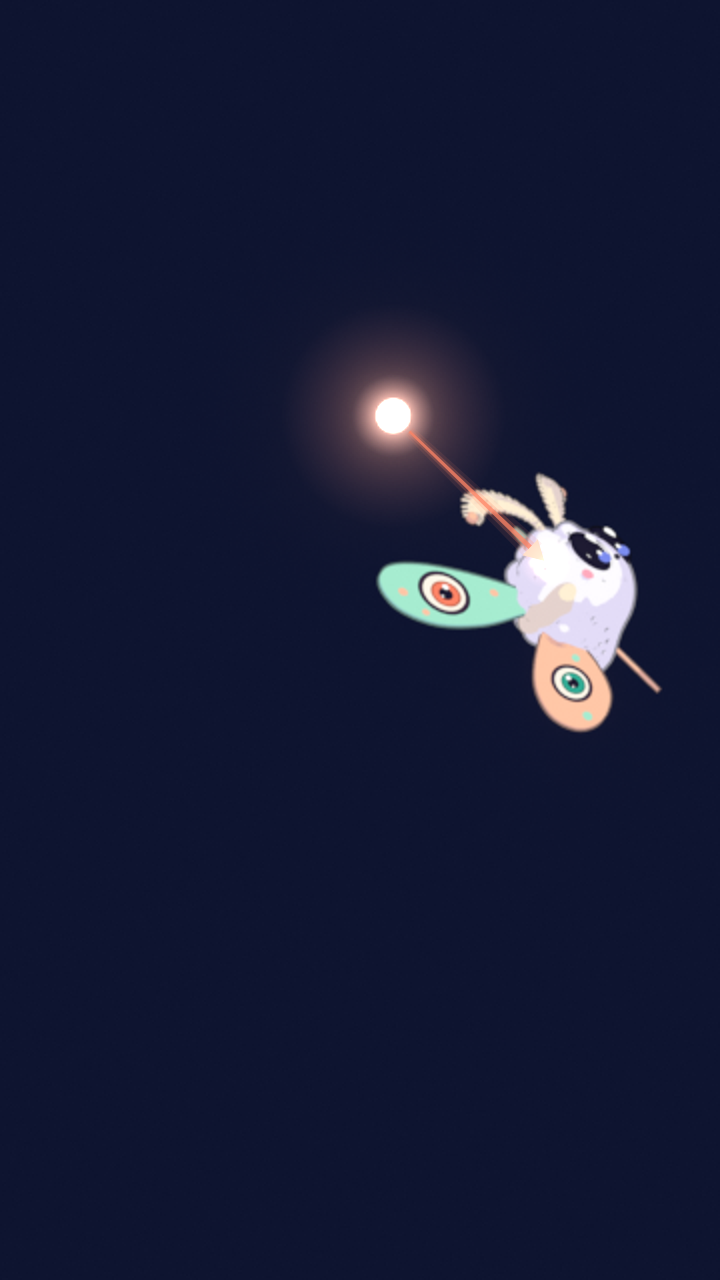
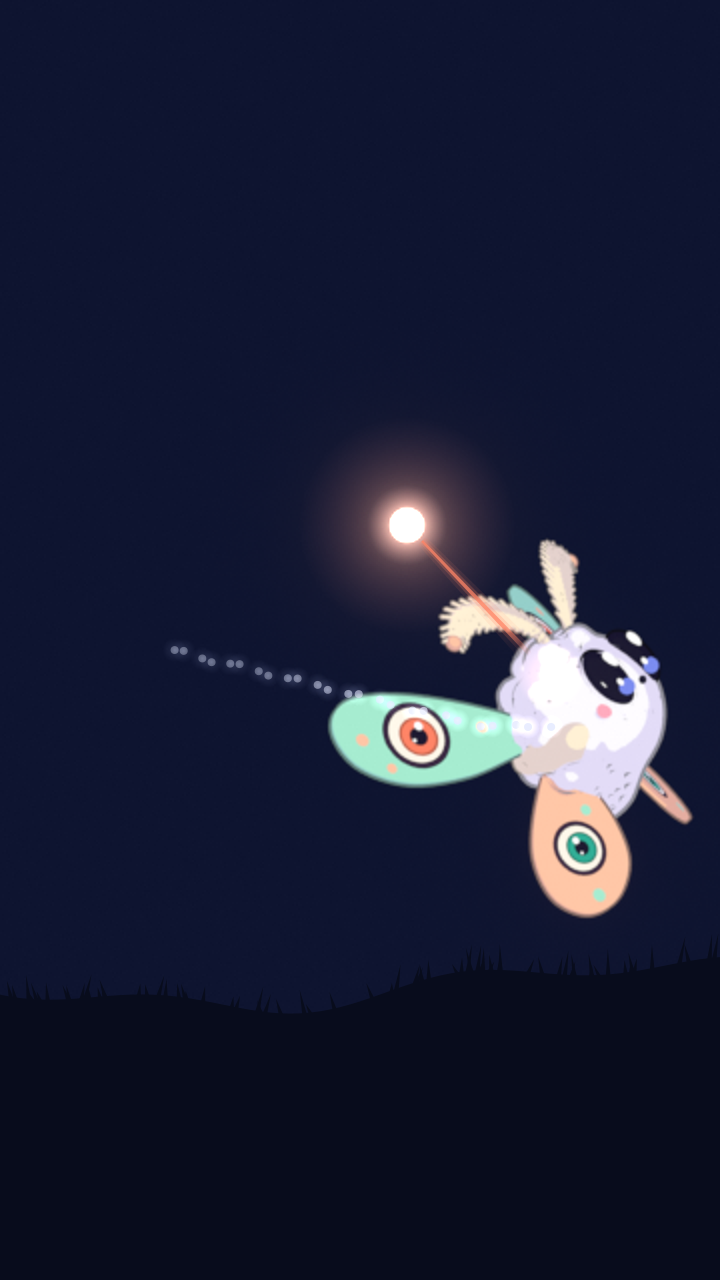
Ep3 S11: OK stills after the fixes (f60, f80), full render running; status
Claude-Session: https://claude.ai/code/session_01PF511YEojWTNPFKxSeURms

Changed region(s): [[0.4278, 0.25, 0.9778, 0.7188], [0.2444, 0.5, 0.3361, 0.5312], [0.3972, 0.5, 0.4278, 0.5312]]

diff --git a/out/monsters/diorama_ep03/status/helper4.md b/out/monsters/diorama_ep03/status/helper4.md
@@ -13,18 +13,16 @@
     - **The shrimp:** on "So I did." it hops from his right hand onto his left shoulder (a crouch, an arc, a landing
       squash).
   - **2D pass:** `EP=ep03 python channels/monsters/diorama_ep02/post_helper4.py S01`.
-- **S11: OK stills pushed, waiting for your OK:** `okstills/S11_f040.png` (level flight, under the light: it does NOT
-  fly at it) and `okstills/S11_f080.png` (its back tilted square to the light, the glow line on its back, the path
-  bending round it). Half-scale renders, upscaled. Timing: 92 render frames ("They" f51, "backs" f63).
-  - **The look:** a clean graphic side view on a dark night-blue ground, swung 30 degrees toward the moth's front so
-    its wings read (edge-on they didn't).
-  - **The moth:** one fluffmoth, 1.8x size, flapping on 1s.
-  - **The light:** a coral orb with a 2D bloom and a real coral point light.
-  - **The tilt:** from "They" its back turns toward the light (`fluffmoth.back_to`, amount 0 to 1 by "backs"+6),
-    and the tilt bends its heading into an arc round the light.
-  - **The glow line:** from "backs" a soft coral line runs from the light to its back (an arrow-like taper, a small
-    head at its back, breathing). No text.
-  - **Camera:** a slow push-in on 1s. Everything stays above the caption band (the moth and light at y ~400-700).
+- **S11: your 3 fixes are done; the FULL RENDER is running** (started about 10:20 UTC, 92 frames).
+  New stills: `okstills/S11_f060.png` and `okstills/S11_f080.png` (the old f040 is removed).
+  1. **"Skewer":** the rod through the moth wasn't the glow line. It was the moth's far hindwing seen edge-on,
+     lined up with the line by chance. The camera is now higher (20 degrees, looking a little down on it) so the
+     wings show their faces. The glow line now fades out in the fur of its back, with a small coral glow where it
+     lands. It never passes the moth.
+  2. **Trail:** a faint dotted trail of its flight so far (older dots dimmer): the long straight run under the light,
+     then the bend round it. A 1 s trail hid under its own wings at this size.
+  3. **Bigger and lower:** the moth is 2.35x (about 1.3x again), lower-centre, the biggest thing in frame, with the
+     light above it. A faint dark hill-and-grass silhouette fills the bottom from y ~985 (clear of 845-930).
 - **QA:** as shots land.
 
 ## Coordinator
